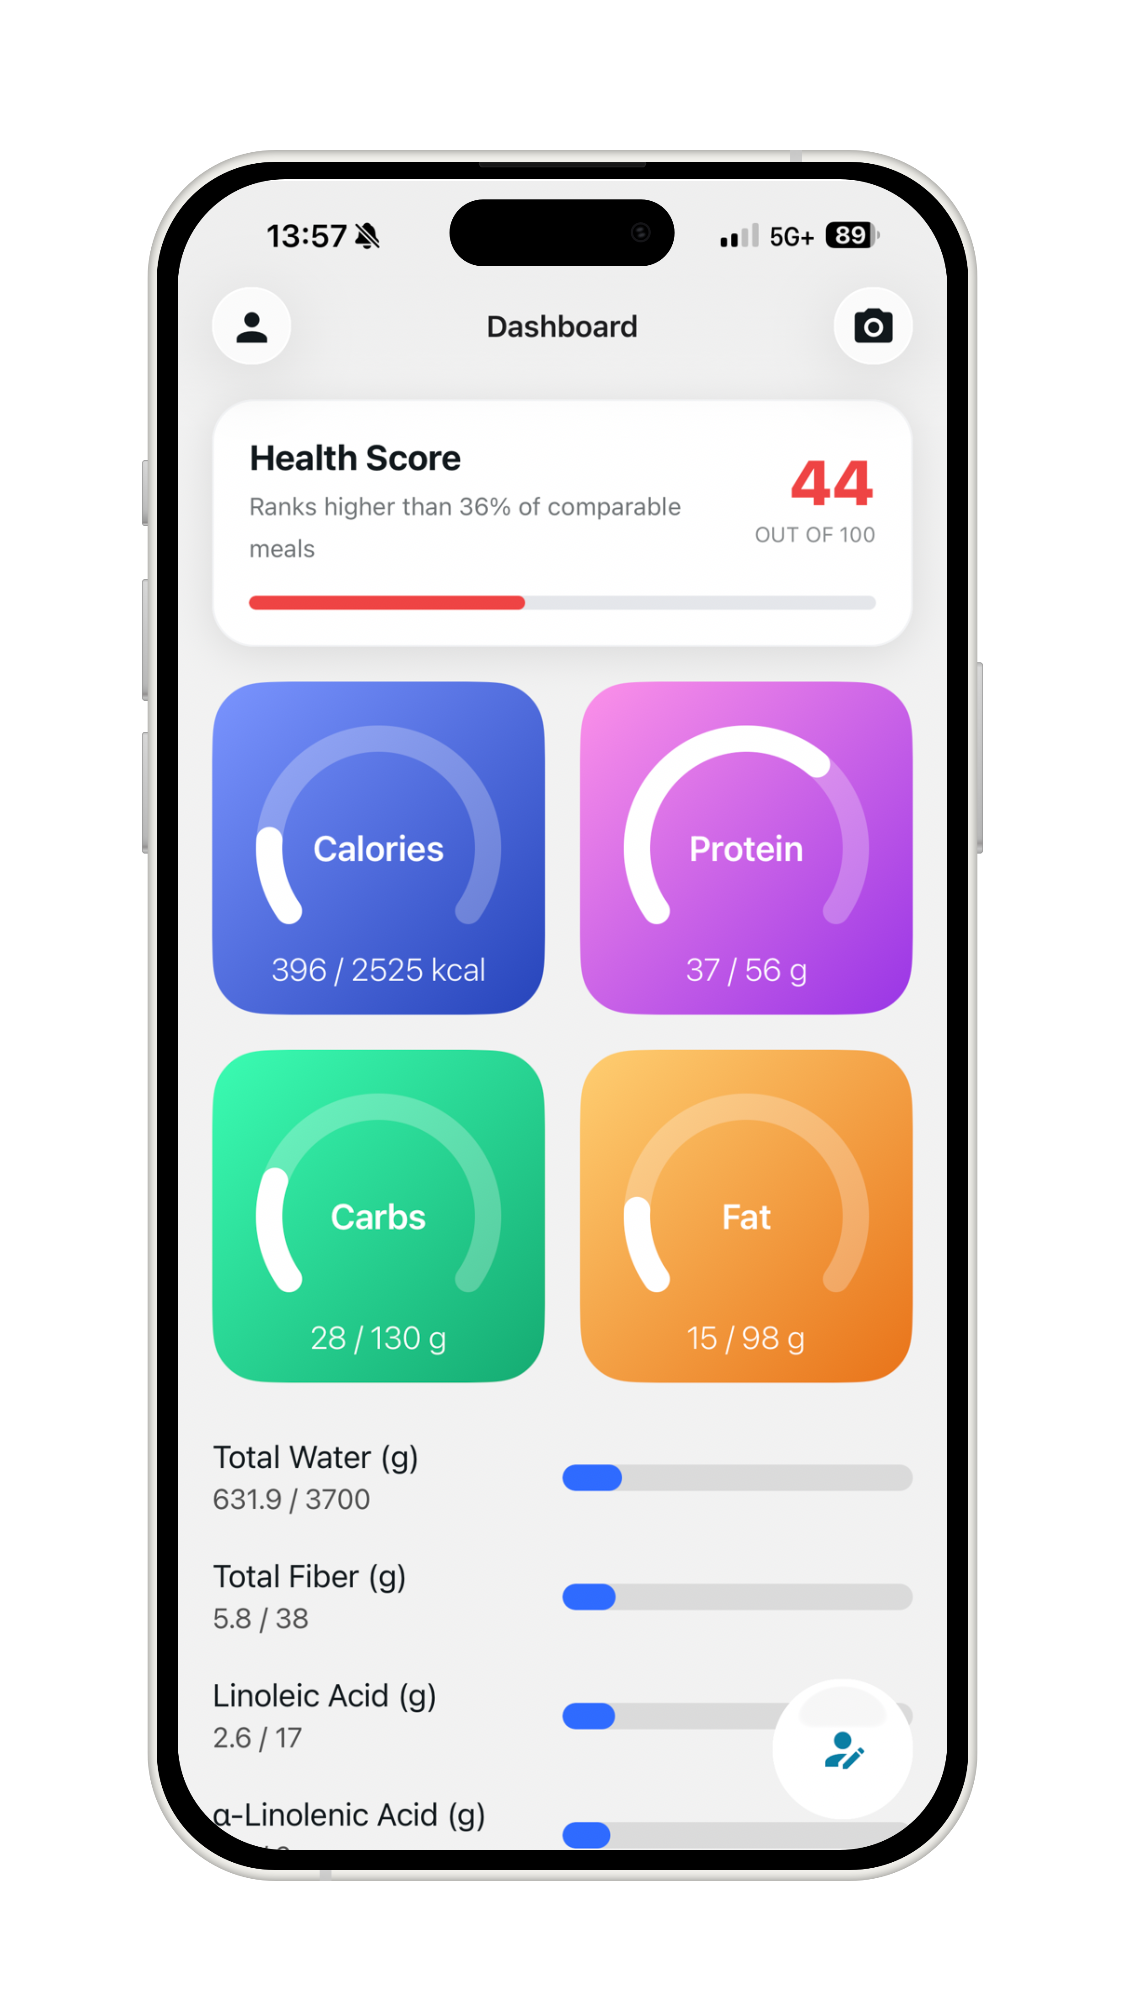
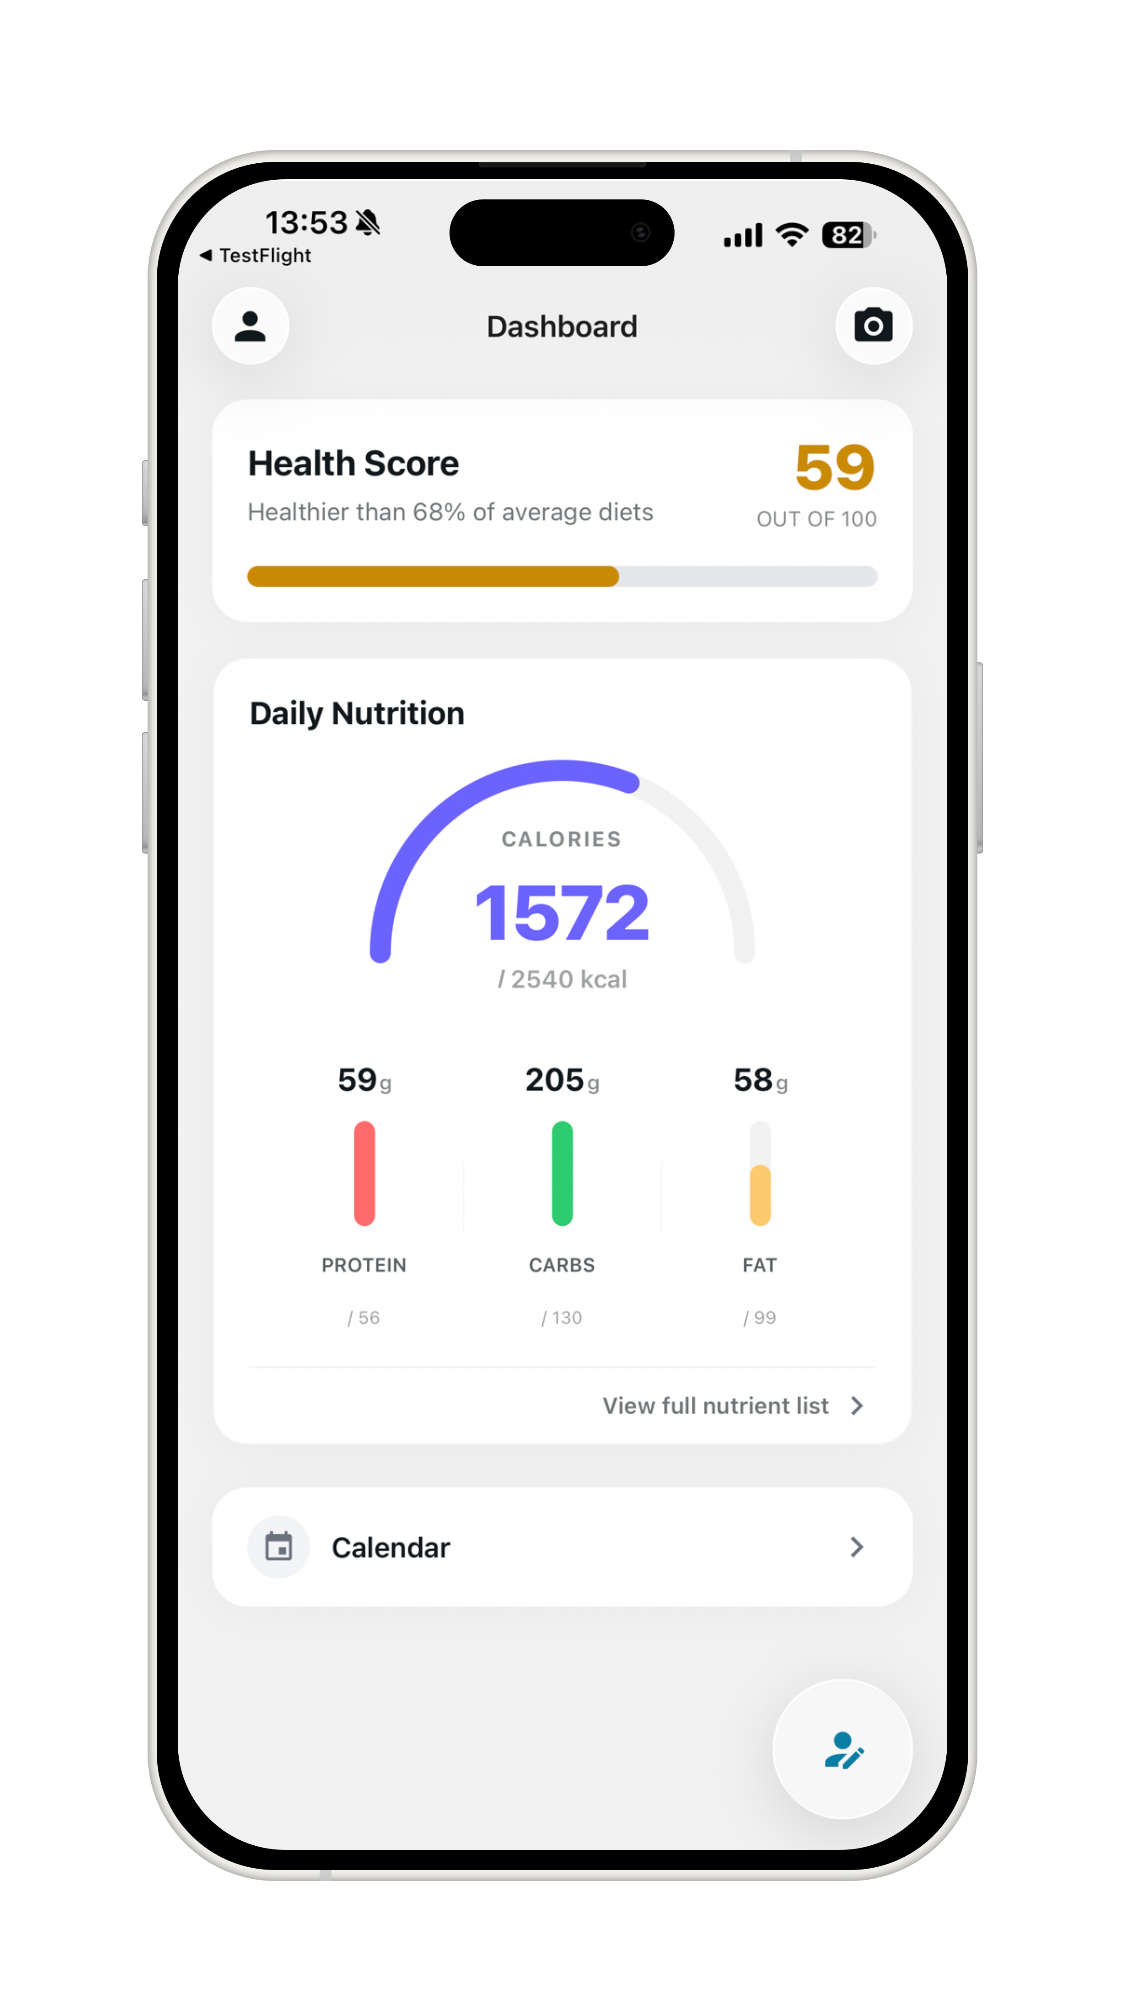
updated screenshots and added Emory branding

diff --git a/index.html b/index.html
@@ -294,6 +294,7 @@
       transform: scale(1.02);
     }
 
+
     /* --- FEATURES SECTION --- */
     .features {
       padding: 80px 0;
@@ -406,6 +407,7 @@
       margin-bottom: 15px;
     }
 
+
     .footer-links {
       display: flex;
       justify-content: center;
@@ -487,10 +489,13 @@
 
   <header>
     <div class="container">
-      <a href="#" class="logo">
-        <img src="icon.png" alt="NutriScan Logo">
-        NutriScan
-      </a>
+      <div style="display: flex; align-items: center; gap: 20px;">
+        <a href="#" class="logo">
+          <img src="icon.png" alt="NutriScan Logo">
+          NutriScan
+        </a>
+        <img src="screenshots/emory-logo.png" alt="Emory University" style="height: 40px; width: auto;">
+      </div>
       <nav>
         <a href="#support" class="nav-link">Support</a>
       </nav>
@@ -544,37 +549,48 @@
 
         <div class="showcase-row">
           <div class="showcase-text">
-            <h3>Visual Food Intelligence</h3>
-            <p>Simply point your camera at your meal. NutriScan identifies the dish—like this Tonkotsu Ramen—instantly.
+            <h3>Instant Meal Scanning</h3>
+            <p>Simply point your camera at your meal. NutriScan identifies dishes like Pineapple Fried Rice instantly.
             </p>
-            <p>Get immediate insights into calories, protein, fats, and carbs without typing a single word. Our AI
-              accounts for ingredients automatically.</p>
+            <p>See calories, protein, fats, and carbs at a glance so you can log meals in seconds instead of minutes.</p>
           </div>
           <div class="showcase-image">
-            <img src="./screenshots/main.png" alt="NutriScan scanning Tonkotsu Ramen" class="phone-mockup">
+            <img src="./screenshots/main.png" alt="NutriScan scanning Pineapple Fried Rice" class="phone-mockup">
           </div>
         </div>
 
         <div class="showcase-row">
           <div class="showcase-text">
-            <h3>Go Beyond Calories</h3>
-            <p>Health isn't just about energy; it's about nutrients. Unlock the "Full Nutrition List" to see exactly
-              what fuels you.</p>
-            <p>Track hydration, sodium levels, fats, and essential minerals. Perfect for specific dietary needs or
-              athletic performance tracking.</p>
+            <h3>Recognized Foods &amp; Portions</h3>
+            <p>NutriScan breaks your plate into individual foods with AI-recognized tags and portions.</p>
+            <p>Quickly review or adjust each item and serving so your log stays accurate without manual searching.</p>
           </div>
           <div class="showcase-image">
-            <img src="./screenshots/nutrition_list.png" alt="Full Nutrition List Breakdown" class="phone-mockup">
+            <img src="./screenshots/main-recognized-food.png" alt="Recognized foods and servings in NutriScan"
+              class="phone-mockup">
+          </div>
+        </div>
+
+        <div class="showcase-row">
+          <div class="showcase-text">
+            <h3>Trusted Nutrition Facts</h3>
+            <p>Dive into a full Nutrition Facts label generated for your meal, including calories, macros, and key
+              micronutrients.</p>
+            <p>NutriScan clearly flags that values are AI estimates and lets you tap through for sources so you know
+              where numbers come from.</p>
+          </div>
+          <div class="showcase-image">
+            <img src="./screenshots/main-nutrition-facts.png" alt="AI generated Nutrition Facts label in NutriScan"
+              class="phone-mockup">
           </div>
         </div>
 
         <div class="showcase-row">
           <div class="showcase-text">
             <h3>Your Daily Health Dashboard</h3>
-            <p>Get a bird's-eye view of your nutrition with your personalized dashboard. See your overall "Health Score"
-              based on your diet quality.</p>
-            <p>Monitor essential macros like Protein, Carbs, and Fat with easy-to-read progress rings, and keep an eye
-              on vital metrics like water intake and fiber.</p>
+            <p>See your Health Score, daily calories, and macro breakdown in one clean dashboard view.</p>
+            <p>Track how today compares to your targets and jump into the full nutrient list whenever you need more
+              detail.</p>
           </div>
           <div class="showcase-image">
             <img src="./screenshots/dashboard.png" alt="NutriScan Daily Dashboard showing macros and health score"
@@ -584,16 +600,25 @@
 
         <div class="showcase-row">
           <div class="showcase-text">
-            <h3>Widgets for Quick Access</h3>
-            <p>Stay on top of your goals without even opening the app. Add the NutriScan widget to your home screen for
-              instant progress updates.</p>
-            <p>See your daily Calorie, Protein, Carb, and Fat intake at a glance, right from your phone's home screen.
-            </p>
-            <p style="font-size: 0.9rem; color: #888; margin-top: 10px;"><em>* Widgets are currently available on iOS
-                only.</em></p>
+            <h3>Track Monthly Progress</h3>
+            <p>Review your month at a glance with color-coded rings for Energy and Health Score on the calendar.</p>
+            <p>Spot trends and maintain your streak by visualizing your daily achievements over time.</p>
           </div>
           <div class="showcase-image">
-            <img src="./screenshots/widget.png" alt="NutriScan Home Screen Widgets" class="phone-mockup">
+            <img src="./screenshots/calendar.png" alt="NutriScan monthly calendar with health scores"
+              class="phone-mockup">
+          </div>
+        </div>
+
+        <div class="showcase-row">
+          <div class="showcase-text">
+            <h3>Detailed Daily Log</h3>
+            <p>Tap on any day to see a complete timeline of your meals and snacks.</p>
+            <p>Review detailed macro breakdowns for the entire day to ensure you're meeting your nutritional targets.</p>
+          </div>
+          <div class="showcase-image">
+            <img src="./screenshots/calendar-2.png" alt="NutriScan daily macros and logged meals"
+              class="phone-mockup">
           </div>
         </div>
 
@@ -643,7 +668,7 @@
 
   <footer>
     <div class="container">
-      <p>&copy; <span id="currentYear"></span> NutriScan. All rights reserved.</p>
+      <p>&copy; 2025 NutriScan x Emory University. All rights reserved.</p>
       <div class="footer-links">
         <a href="privacy.html">Privacy Policy</a>
         <span>|</span>
@@ -659,9 +684,6 @@
     document.addEventListener('DOMContentLoaded', () => {
       const heroText = document.getElementById('heroText');
       
-      // UPDATED: Set current year dynamically
-      document.getElementById('currentYear').textContent = new Date().getFullYear();
-
       // Add a slight delay for effect
       setTimeout(() => {
         heroText.classList.add('visible');
